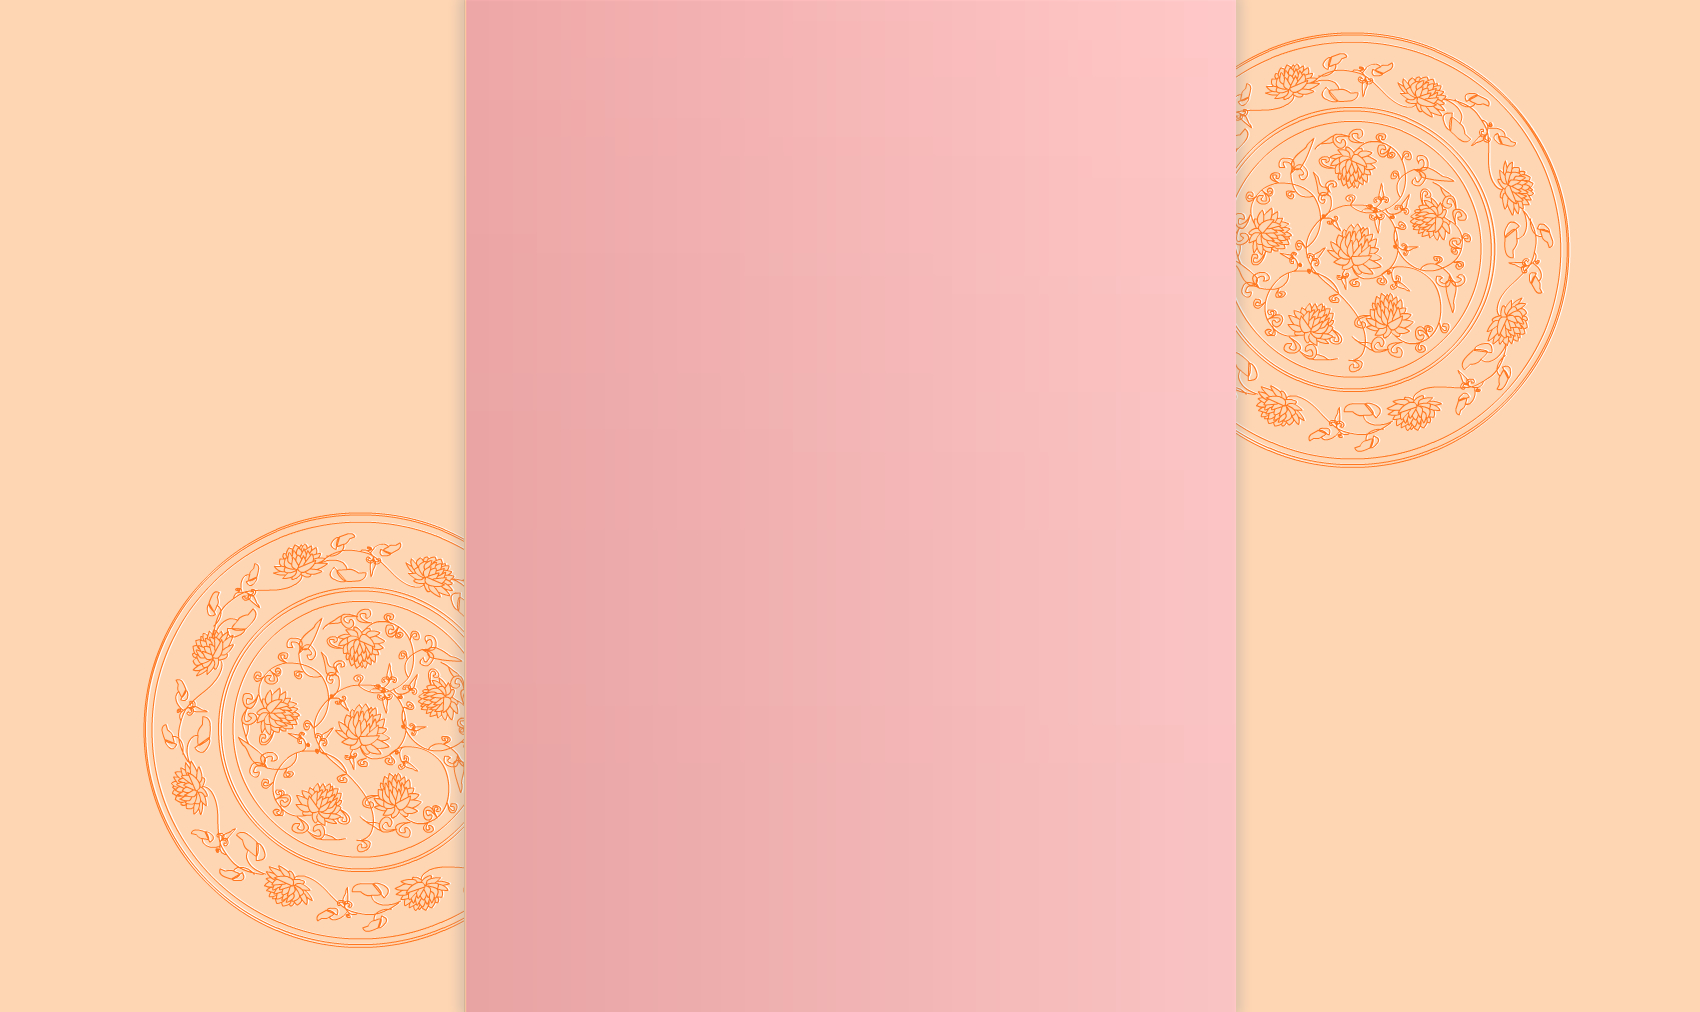
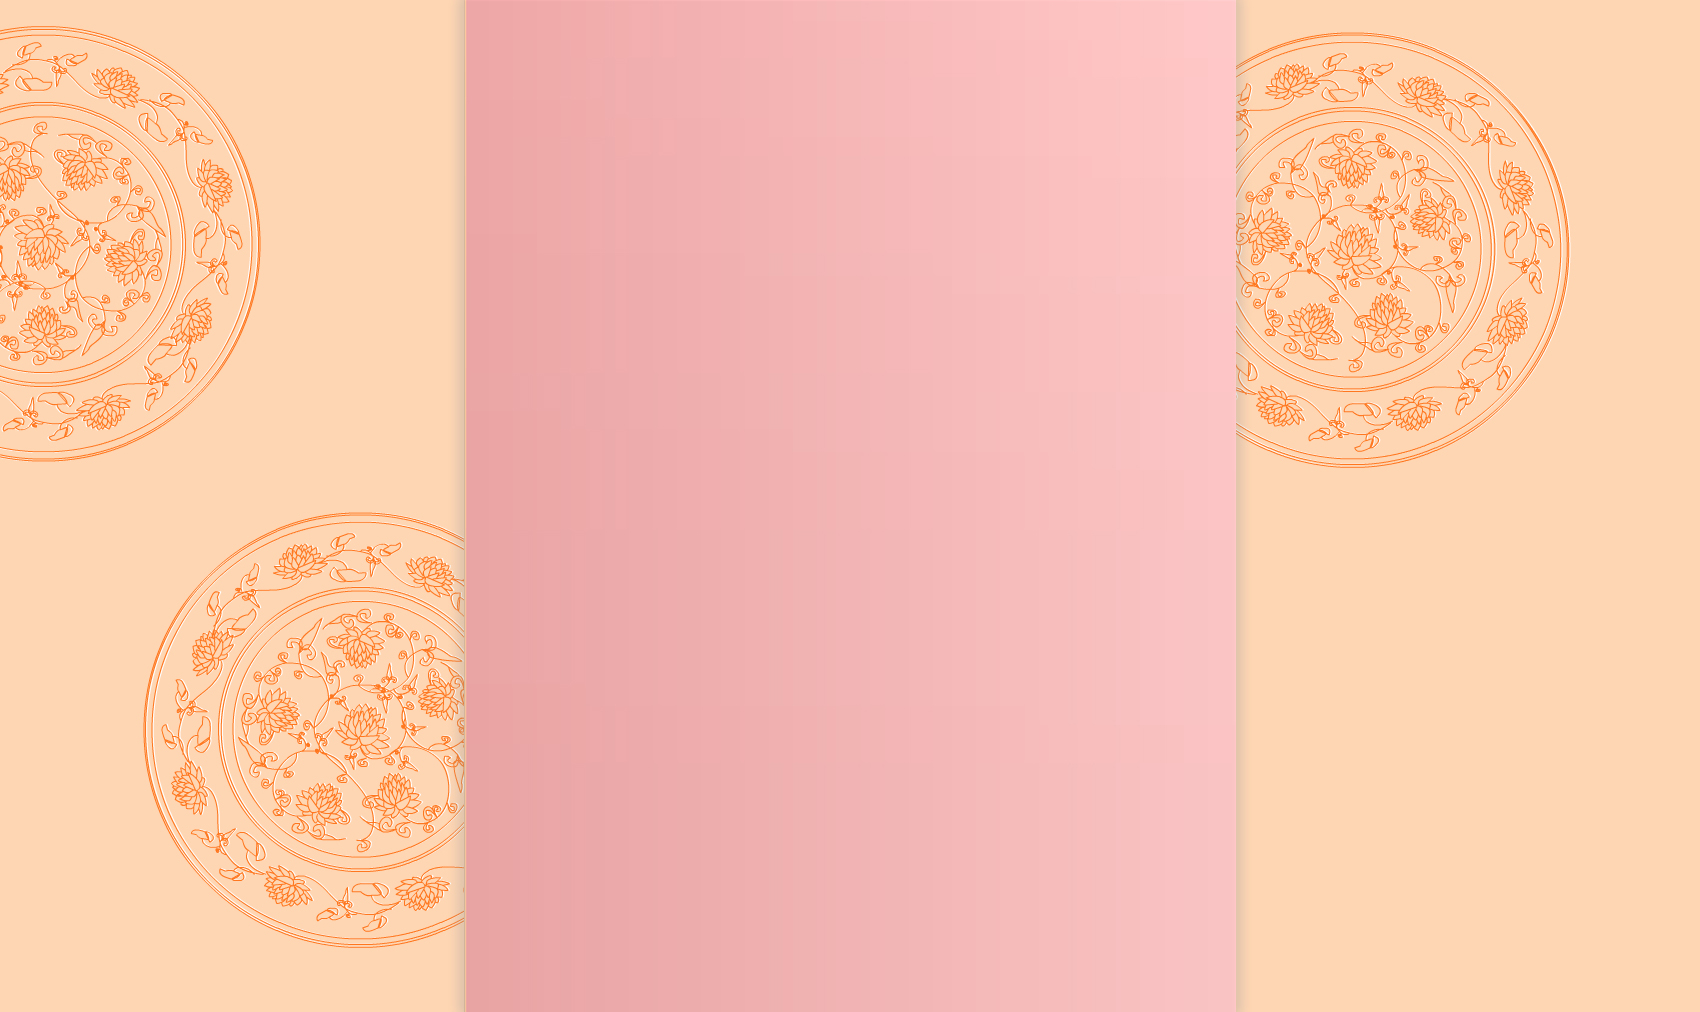
a

Changed region(s): [[0.0, 0.0306, 0.1559, 0.4595]]

diff --git a/index.html b/index.html
@@ -8,7 +8,8 @@
 		
     <META NAME="Keywords" CONTENT="髪染めにお悩みの方,白髪でお悩みの方,艶や,つややヘナ,アレルギーフリー,ノンジアミン,ジアミンフリー,ノンケミカル,生薬,Henna,ヘナ,よく染まるヘナ,毛質,髪質改善,くせ毛,パーマのかかりすぎ,ジャガイモカール,痛まないパーマ,髪の傷みが気になる方,薄毛,ボリューム不足,髪が元気がない,世田谷区,世田谷区奥沢,九品仏,髪にやさしい,マッサージ,中国,東方美人,ヘアサロン,髪に優しいカラー,理容,美容,マッサージ,癒し,TOUHOUBIJIN,ORIENTAL　BEAUTY,ASIA,JAPAN">
     <title>東方美人〜美髪サロンへようこそ </title>
-		
+	<!--背景CSS-->	
+	<link href="css/main_contents.css" rel="stylesheet" type="text/css" />		
     <style>
 
 
@@ -64,9 +65,9 @@
     <script type="text/javascript" src="fancybox/source/helpers/jquery.fancybox-thumbs.js?v=2.0.4"></script>
     <!-- /Add fancyBox -->
 
-    <script type="text/javascript" src="js/libs/swfobject/swfobject.js"></script>
+<!--   フラッシュ判別プログラム
+<script type="text/javascript" src="js/libs/swfobject/swfobject.js"></script>
     <script type="text/javascript">
-
 
         $(document).ready(function() {
             if($("#top_ipad").length>=1){
@@ -75,14 +76,7 @@
 
                     $('#top_txt_ipad').html(html);
                 });
-
-
-
-
-
             }
-
-
 
             $(".fancybox").fancybox({
                         width:450,
@@ -99,23 +93,7 @@
 
             $("#infomation").trigger('click');
 
-
-
-
         });
-
-
-
-
-
-
-
-
-
-
-
-
-
 
         var flashwidth = "100%";
 
@@ -130,8 +108,7 @@
         };
 
         swfobject.embedSWF("index.swf?v=3", "flaContent",flashwidth, "900", "9.0.0", "js/libs/swfobject/expressInstall.swf",flashvars,params);
-    </script>
-
+    </script>-->
 </head>
 <!--<body onload="javascript:popup('infomation20090210.html','info',450,348);">-->
 <body>
@@ -151,7 +128,7 @@
                 <map name="Map" id="Map">
                     <area shape="rect" coords="223,376,326,398" href="salon_menus/index.html" />
                     <area shape="rect" coords="749,377,840,400" href="info/index.html" /><area shape="rect" coords="647,377,738,400" href="speciarite/index.html" /><area shape="rect" coords="544,376,635,399" href="qanda_and_other/index.html" /><area shape="rect" coords="444,376,535,399" href="hennna/index.html" /><area shape="rect" coords="335,377,439,400" href="progress/index.html" />
-                    <area shape="rect" coords="128,376,219,399" href="salon_info/salon.html" />
+                    <area shape="rect" coords="128,376,219,399" href="salon_info/index.html" />
                 </map>
             </div>
         </div>
